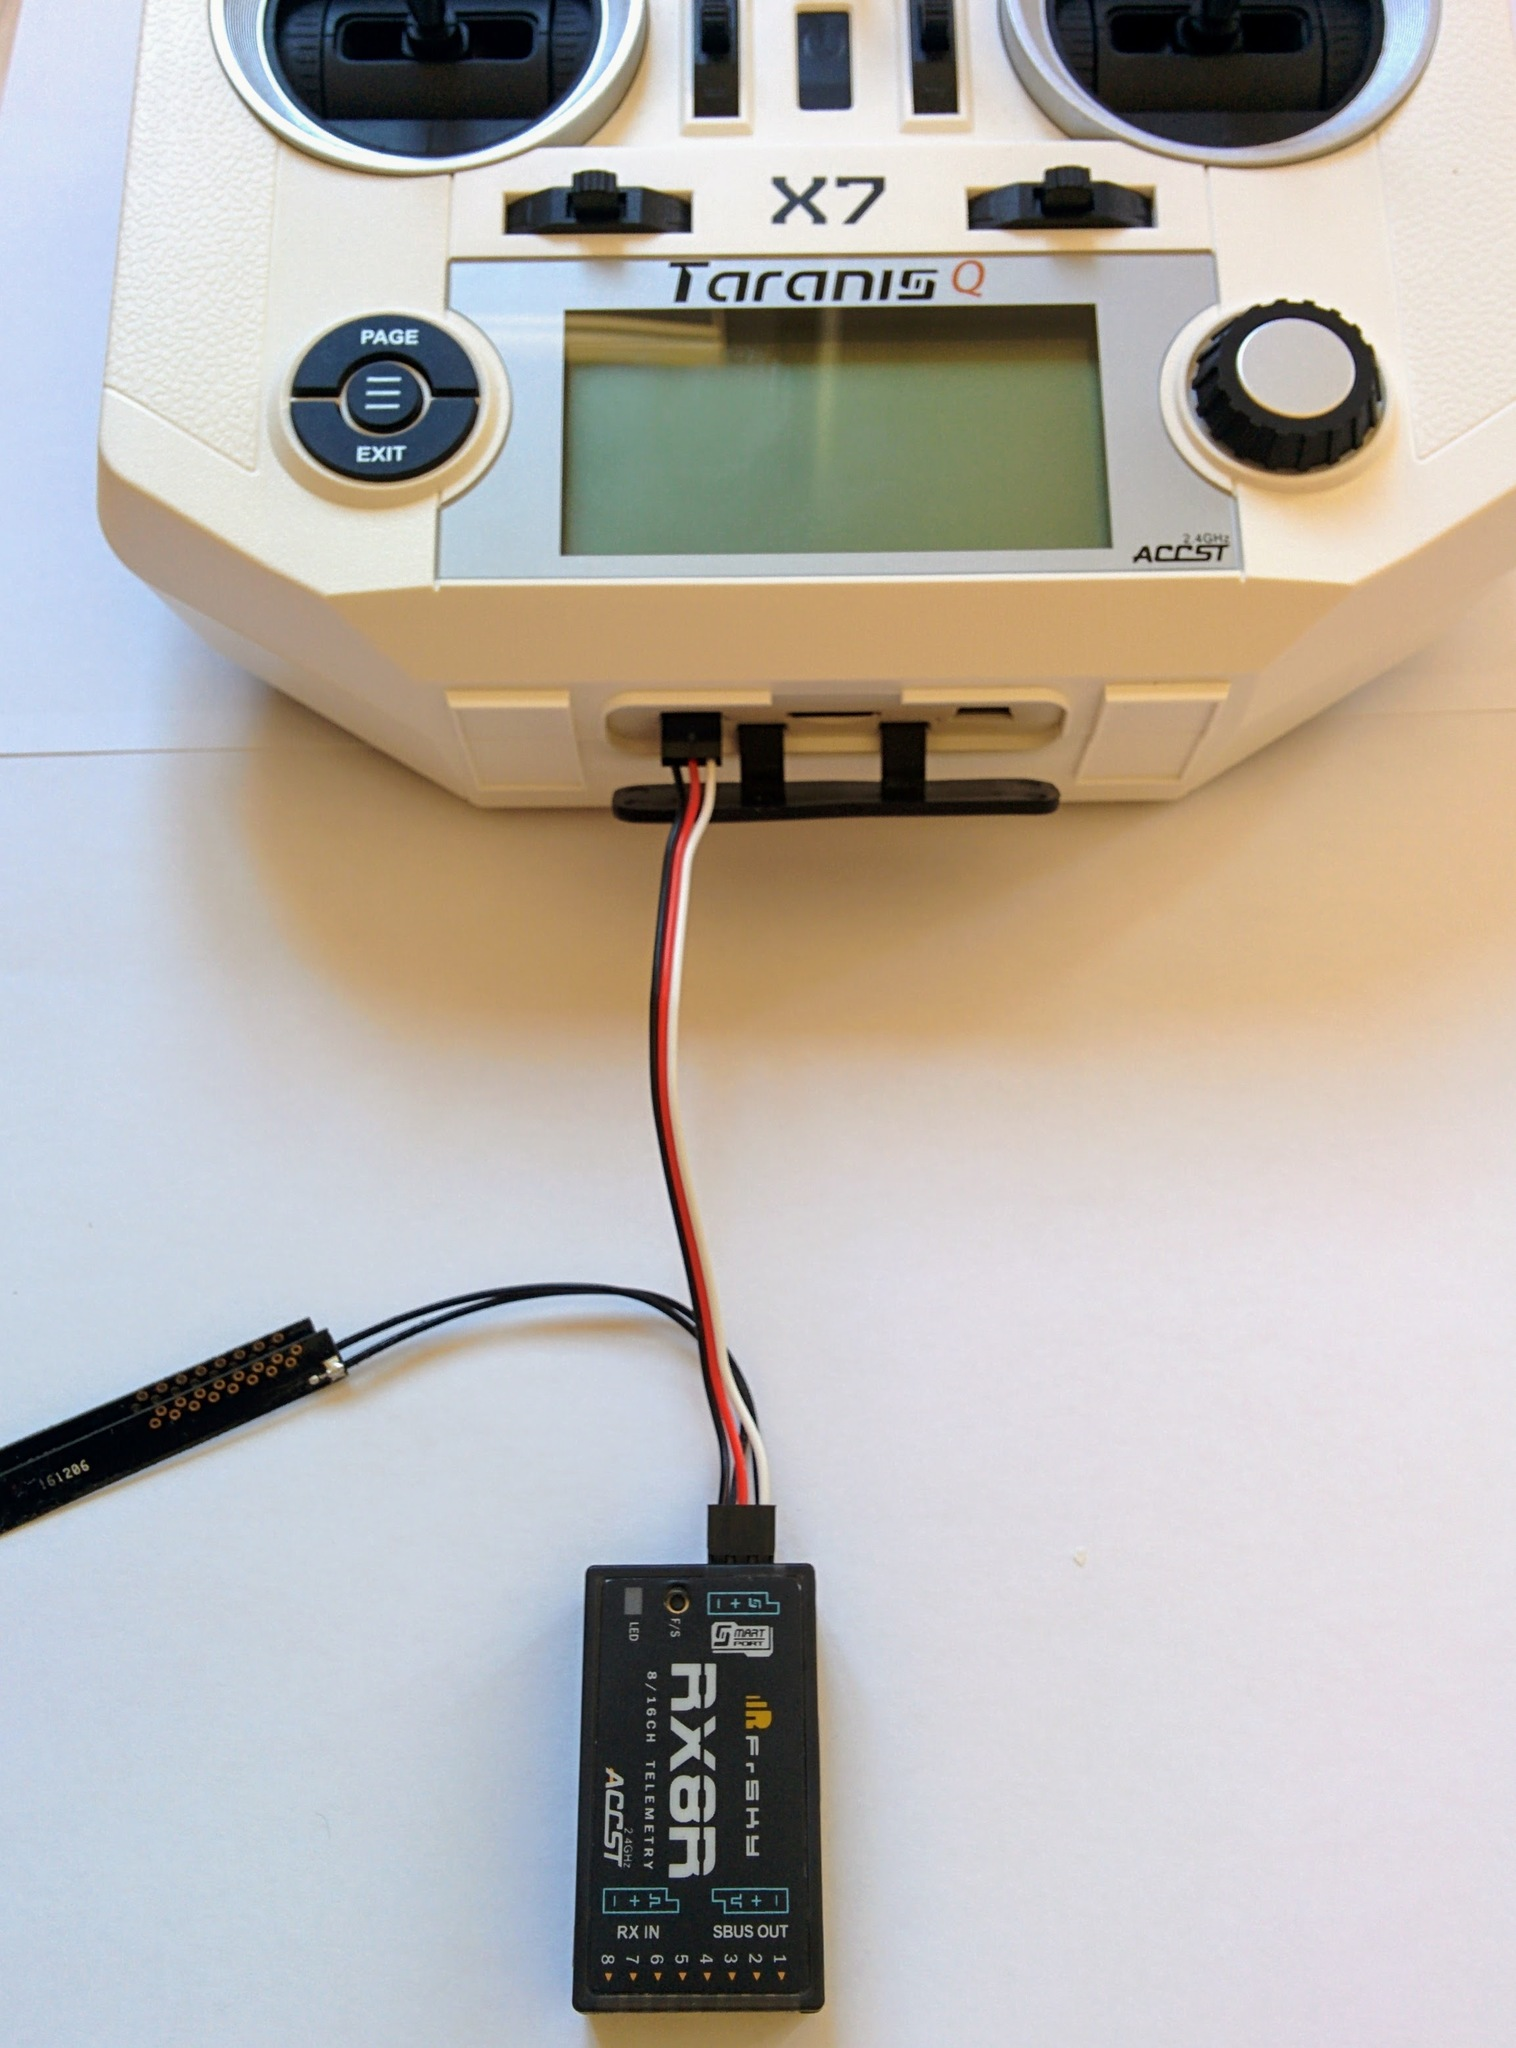
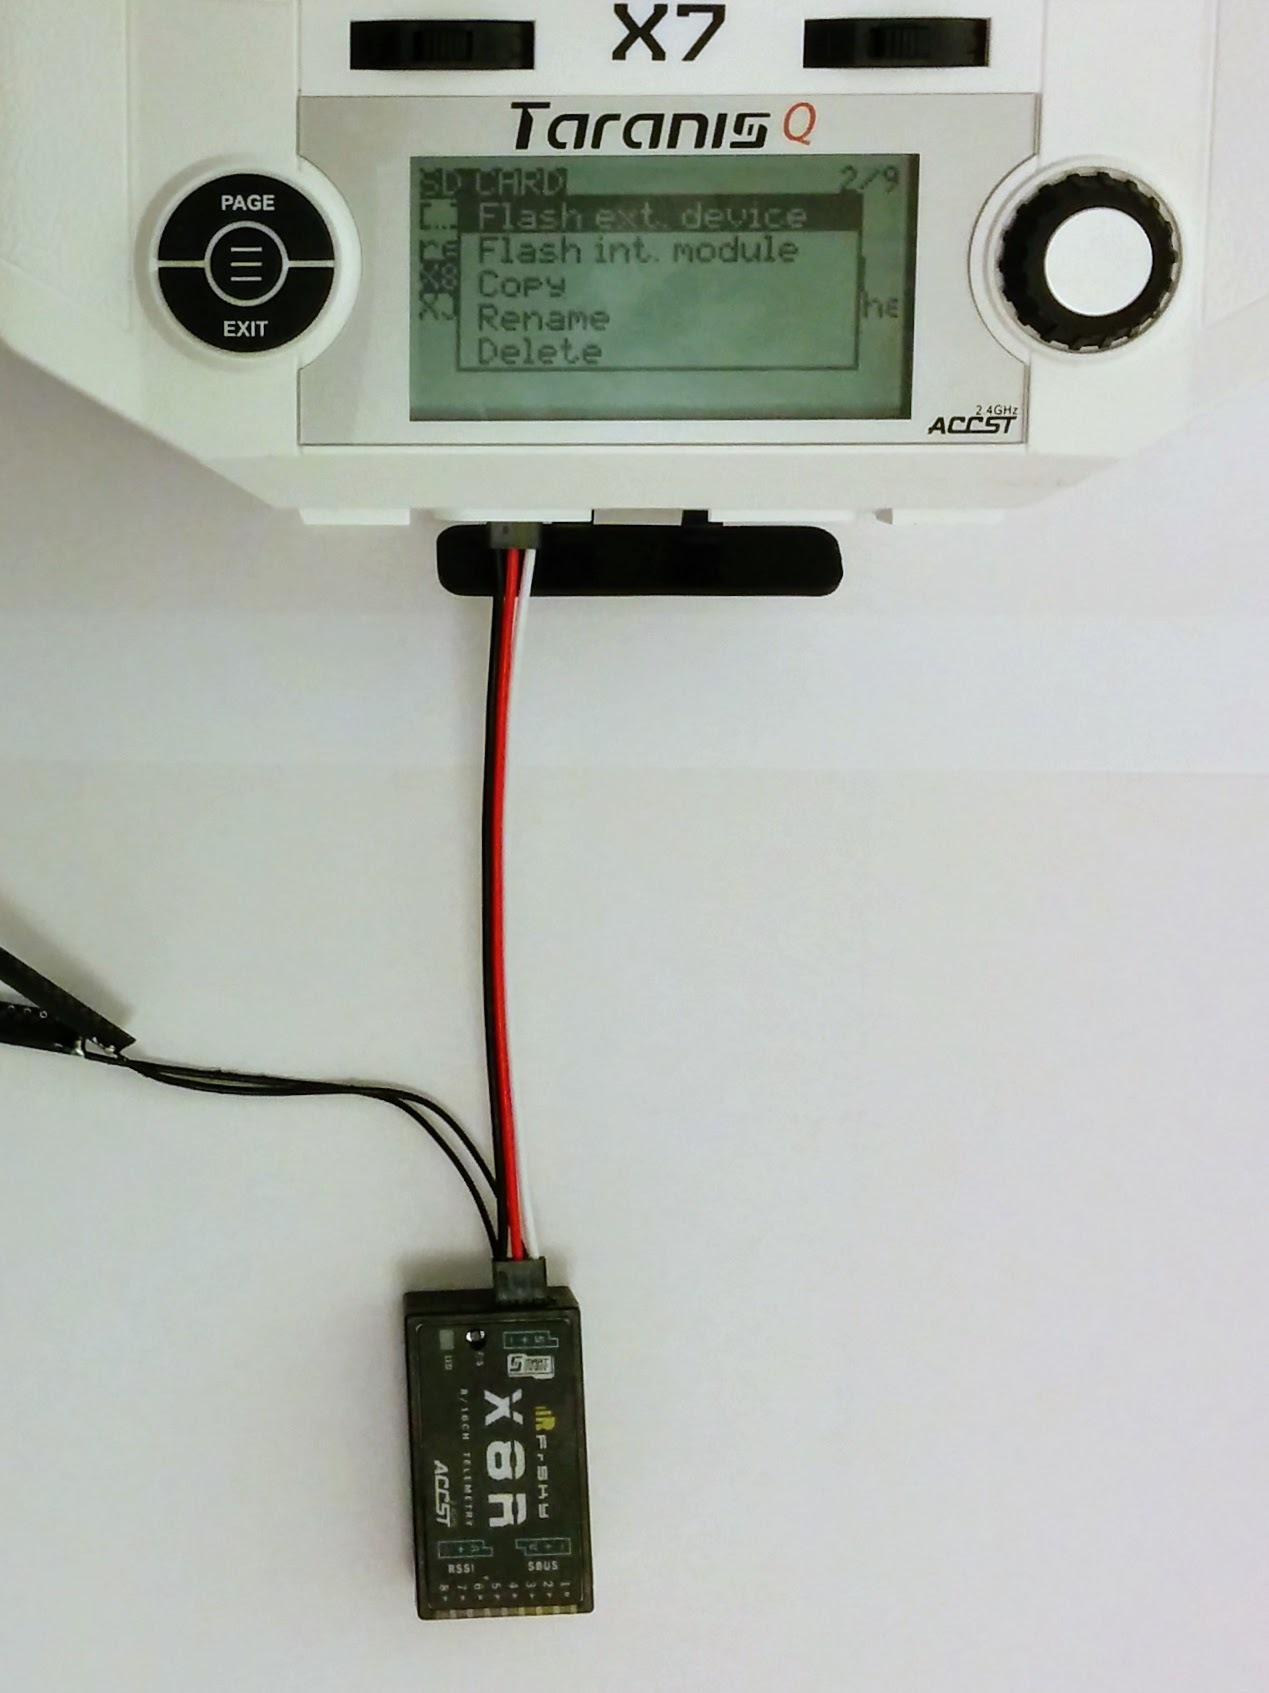
Updated receiver upgrade photos.

diff --git a/receiver.md b/receiver.md
@@ -53,15 +53,17 @@ So as before go to [_Download_](http://www.frsky-rc.com/download/) on the FrSKY 
 
 Once you've downloaded and extracted the firmware zip file you should have a single `.frk` firmware file. Now turn on you're transmitter, connect it to your computer via USB and the transmitter's SD card should appear as a USB drive. Copy the `.frk` file to the `FIRMWARE` directory there. Eject the transmitter's drives on your computer and disconnect it.
 
+Note: FrSKY seem to randomly switch between [zip](https://en.wikipedia.org/wiki/Zip_(file_format)) and [rar](https://en.wikipedia.org/wiki/RAR_(file_format)) for compressing their firmware files etc.
+
 Now we're going to connect up the transmitter to the receiver as shown here using the servo cable. The servo cable won't prevent you plugging things in incorrectly - you can connect ground on one side to signal on the other so double check the connections on both receiver and transmitter (see the pictures below). The black wire (ground) should always be furthest away from that little extra notch you see on one side of any S.BUS socket.
 
 | | | |
 |-|-|-|
 | _Q X7 connected to receiver._<br>![to receiver](images/assembly/receiver/taranis-q-x7-to-receiver.jpg) | _Q X7 connection closeup._<br>![TX closeup](images/assembly/receiver/taranis-q-x7-connection.jpg) | _Receiver connection closeup._<br>![RX closeup](images/assembly/receiver/receiver-connection.jpg) |
 
-Now that the receiver is connected, turn it on, navigate to the `FIRMWARE` directory. Select the right firmware file (don't mix it up with the XJT module firmware that you might also have there), it should be called something like `X8R_LBT_build151118.frk`, select ENTER and this time select _Flash ext. device_ (rather than _int. device_).
+Now that the receiver is connected, turn it on, navigate to the `FIRMWARE` directory. Select the right firmware file (don't mix it up with the XJT module firmware that you might also have there), it should be called something like `X8R_LBT_build151118.frk`, select _ENTER_ and this time select _Flash ext. device_ (rather than _int. device_).
 
-You'll see a progress bar indicating that it's being written, once successfully completed it'll just return to the SD card screen. Turn off the transmitter and disconnect the now upgraded receiver.
+The receiver's green LED will turn on and its red LED will flash during the process. On the transmitter you'll see a progress bar, indicating that the new firmware is being written, and once successfully completed it'll just return to the SD card screen. Turn off the transmitter and disconnect the now upgraded receiver.
 
 Note: servo cables always have power as the middle wire - this prevents a more serious issue than getting ground and signal mixed up (which won't work but is probably safe). If ground and power were the two outer pins (with signal in the middle) then it would be possible to get power and ground mixed up which would almost certainly fry the device. It's always important to check power and ground wires - in hobbyist setups, unlike consumer electronics, there may be nothing preventing you wiring things up incorrectly and the result will often be fatal for the devices involved.
 
@@ -70,7 +72,7 @@ X8R alternatives
 
 As noted above the X8R is by far the most popular receiver for this kind of build. But you will also see other receivers being used and depending on your preferences you might like to use one of them instead.
 
-Above in some of the pictures, if you've been looking carefully, you might have noticed that the receiver is an RX8R rather than an X8R. This is just because the X8R was out of stock at the particular retailer I was using. The RX8R is physically identical to the X8R except that instead of an RSSI port it has an RX IN port - this allows for redundancy (hence the R at the start of the name) and let's you connect up a second receiver - if the primary one fails for some reason the secondary one takes over. The RX8R is slightly more expensive than the X8R, has absolutely no advantages over the X8R for our setup and has the downside that RSSI isn't easily available as a port for connection to the flight controller. You can though open up the RX8R and run out a wire from a solder pad there that provides RSSI (for shots of the inside of the RX8R see [`rx8r.md`](rx8r.md)).
+If you look closely elsewhere in this guide you may notice that the receiver in some of the photos is an RX8R rather than an X8R. This is just because the X8R was out of stock at the particular retailer I was using. The RX8R is physically identical to the X8R except that instead of an RSSI port it has an RX IN port - this allows for redundancy (hence the R at the start of the name) and let's you connect up a second receiver - if the primary one fails for some reason the secondary one takes over. The RX8R is slightly more expensive than the X8R, has absolutely no advantages over the X8R for our setup and has the downside that RSSI isn't easily available as a port for connection to the flight controller. You can though open up the RX8R and run out a wire from a solder pad there that provides RSSI (for shots of the inside of the RX8R see [`rx8r.md`](rx8r.md)).
 
 Note: unlike the X8R the firmware for the RX8R seems to always ship with two firmware files, the EU and non-EU versions, bundled together in one zip file so, unlike the X8R, you don't have to hunt through the version history information for the latest version appropriate for your jurisdiction.
 
